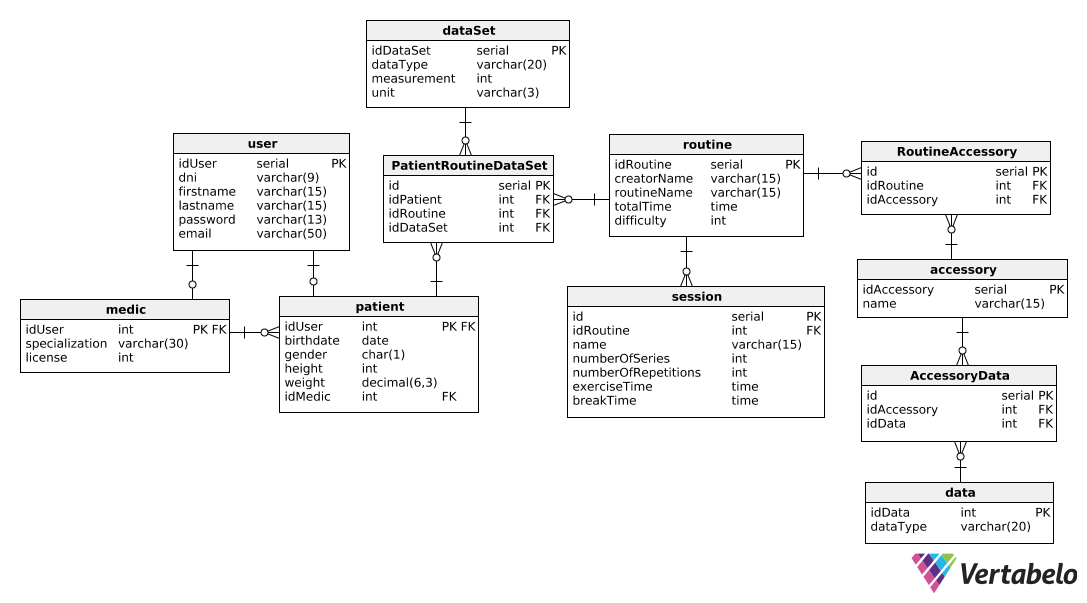
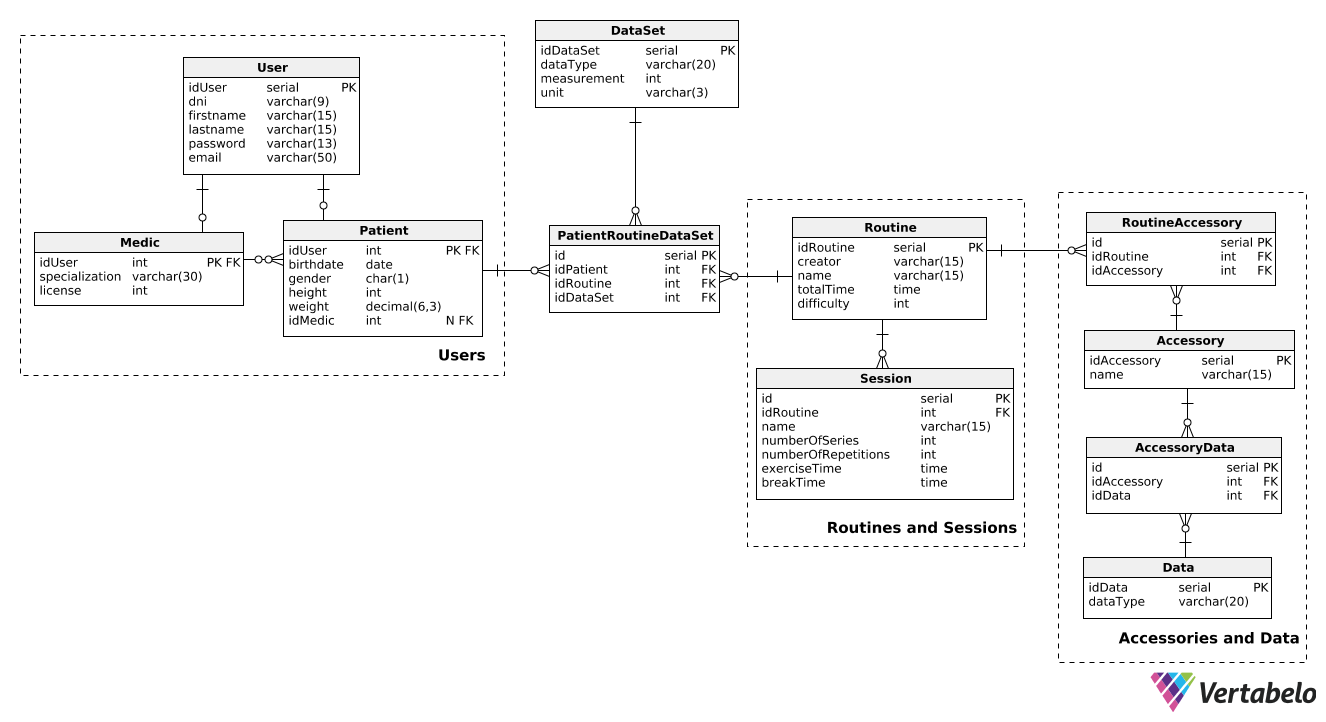
Modifique la base de datos, README y entities

Changed region(s): [[0.0, 0.0597, 1.0, 0.9851], [0.3339, 0.0, 0.5768, 0.1791], [0.0, 0.5075, 0.2125, 0.6269]]

diff --git a/cloud/src/main/java/org/magritte/rayman/data/entity/User.java b/cloud/src/main/java/org/magritte/rayman/data/entity/User.java
@@ -23,27 +23,21 @@ public abstract class User {
     private Integer id;
     
     @ToString.Include
-    @NotNull
-    @Size(max = 9)
     private String dni;
 
-    @Size(max = 15)
     @ToString.Include
     private String name;
 
-    @Size(max = 15)
     @ToString.Include
     private String lastname;
 
-    @Size(max = 13)
     @ToString.Include
     private String password;
 
-    @Size(max = 50)
     @ToString.Include
     private String email;
 
-    public User(String dni, String name, String lastname, String password, String email, char c){
+    public User(String dni, String name, String lastname, String password, String email){
         this.dni = dni;
         this.name = name;
         this.lastname = lastname;

diff --git a/cloud/src/main/java/org/magritte/rayman/data/entity/DataSet.java b/cloud/src/main/java/org/magritte/rayman/data/entity/DataSet.java
@@ -20,14 +20,12 @@ public class DataSet {
     @EqualsAndHashCode.Include
     private Integer idDataSet;
 
-    @Size(max = 20)
     @ToString.Include
     private String dataType;
 
     @ToString.Include
     private int measurement;
 
-    @Size(max = 3)
     @ToString.Include
     private String unit;
 

diff --git a/cloud/src/main/java/org/magritte/rayman/data/entity/Routine.java b/cloud/src/main/java/org/magritte/rayman/data/entity/Routine.java
@@ -21,11 +21,9 @@ public class Routine {
     @EqualsAndHashCode.Include
     private Integer idRoutine;
 
-    @Size(max = 15)
     @ToString.Include
     private String creatorName;
 
-    @Size(max = 15)
     @ToString.Include
     private String routineName;
 

diff --git a/cloud/src/main/java/org/magritte/rayman/data/entity/Medic.java b/cloud/src/main/java/org/magritte/rayman/data/entity/Medic.java
@@ -13,7 +13,6 @@ import javax.validation.constraints.Size;
 @Entity
 public class Medic extends User {
 
-    @Size(max = 30)
     @ToString.Include
     private String specialization;
 

diff --git a/cloud/src/main/java/org/magritte/rayman/data/entity/Accessory.java b/cloud/src/main/java/org/magritte/rayman/data/entity/Accessory.java
@@ -20,7 +20,6 @@ public class Accessory {
     @EqualsAndHashCode.Include
     private Integer idAccessory;
 
-    @Size(max = 15)
     @ToString.Include
     private String name;
 

diff --git a/cloud/src/main/java/org/magritte/rayman/data/entity/Data.java b/cloud/src/main/java/org/magritte/rayman/data/entity/Data.java
@@ -20,7 +20,6 @@ public class Data {
     @EqualsAndHashCode.Include
     private Integer idData;
 
-    @Size(max = 20)
     @ToString.Include
     private String dataType;
 

diff --git a/cloud/src/main/java/org/magritte/rayman/data/entity/Session.java b/cloud/src/main/java/org/magritte/rayman/data/entity/Session.java
@@ -24,7 +24,6 @@ public class Session {
     @ToString.Include
     private Routine routine;
 
-    @Size(max = 15)
     @ToString.Include
     private String name;
 

diff --git a/README.md b/README.md
@@ -5,17 +5,17 @@ Repositorio para proyecto de ingeniería del software.
 
   ### [Crear el container](https://hub.docker.com/_/postgres)
 ```bash
-sudo docker run --name some-postgres -e POSTGRES_PASSWORD=mysecretpassword -d postgres
+sudo docker run --name rayman -e POSTGRES_PASSWORD=rayman -d postgres
 ```
 
 ### Ingresar
 ```bash
-sudo docker exec -it some-postgres psql postgres -U postgres
+sudo docker exec -it rayman psql postgres -U postgres
 ```
 
 ### [How to get a Docker container's IP address from the host](https://stackoverflow.com/questions/17157721/how-to-get-a-docker-containers-ip-address-from-the-host)
 ```bash
-docker inspect -f '{{range .NetworkSettings.Networks}}{{.IPAddress}}{{end}}' container_name_or_id
+docker inspect -f '{{range .NetworkSettings.Networks}}{{.IPAddress}}{{end}}' rayman
 ```
 Muestra la ip en la que esta corriendo el container, 
 Valores por defecto:
@@ -25,7 +25,7 @@ Valores por defecto:
 
 ### Cargar archivos
 ```bash
-sudo docker exec -i some-postgres psql -U postgres postgres < 'file.sql'
+sudo docker exec -i rayman psql postgres -U postgres < ~/magriette_create.sql
 ```
 
 ### [Ejecutar sin root](https://www.digitalocean.com/community/questions/how-to-fix-docker-got-permission-denied-while-trying-to-connect-to-the-docker-daemon-socket)
